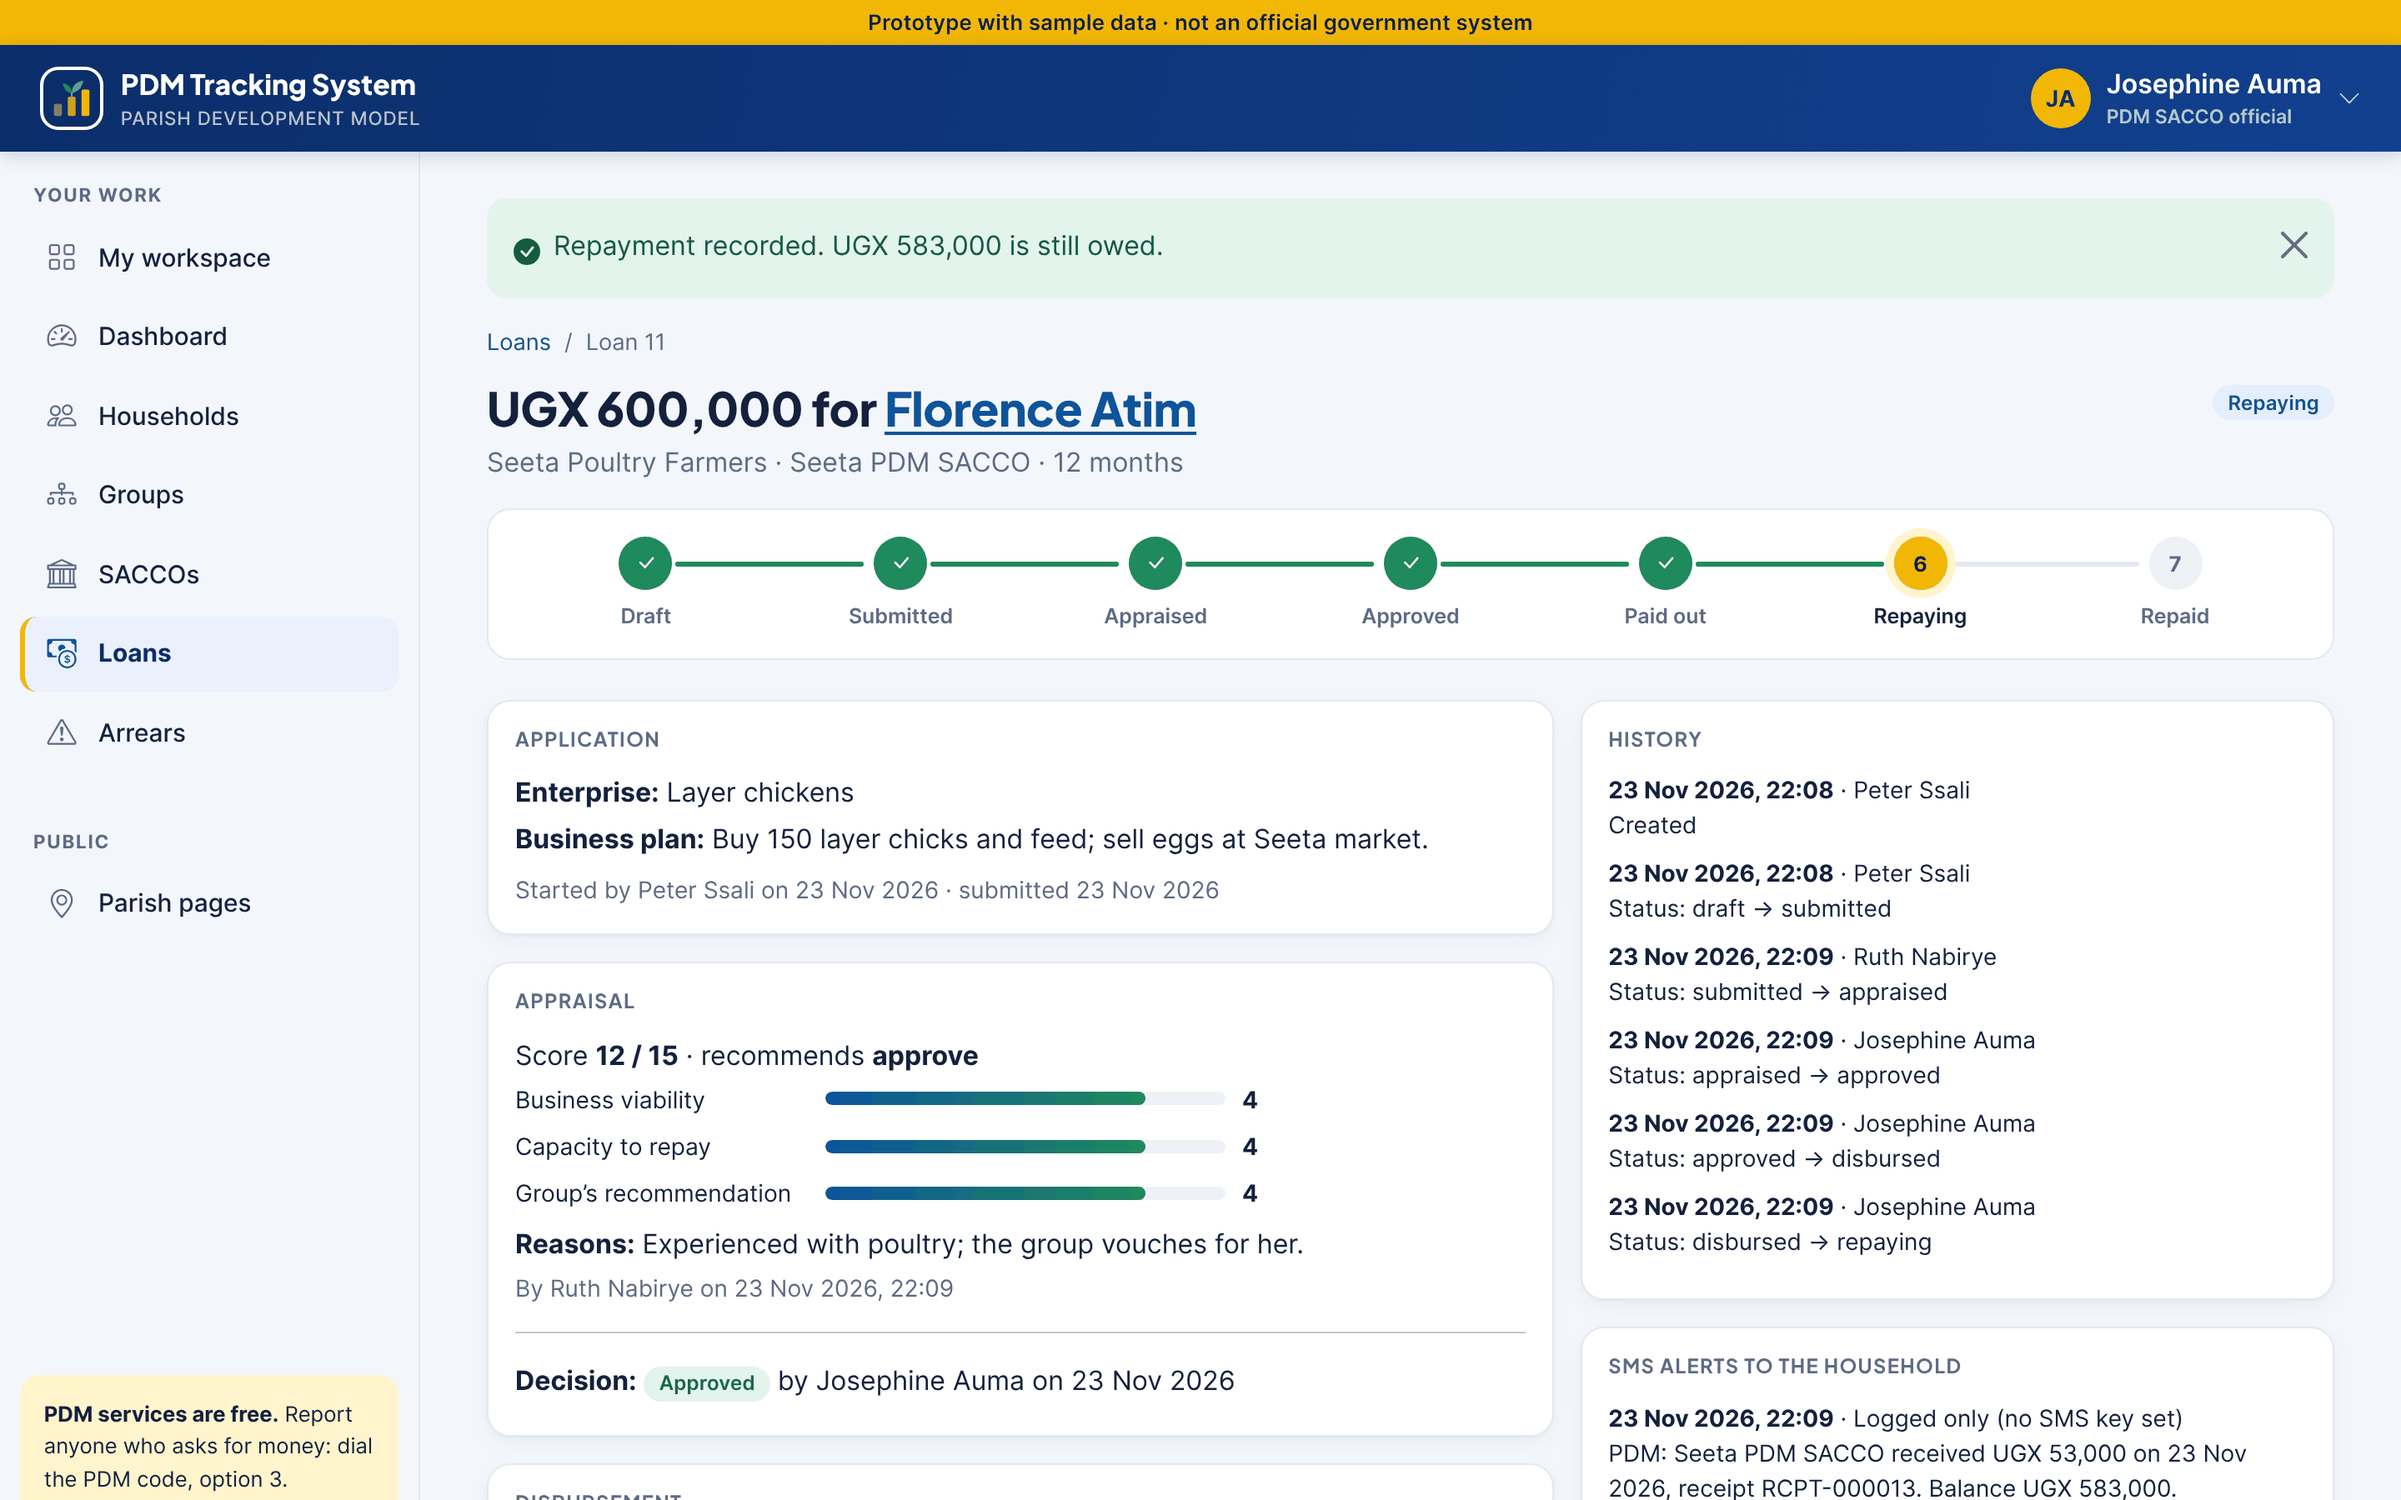
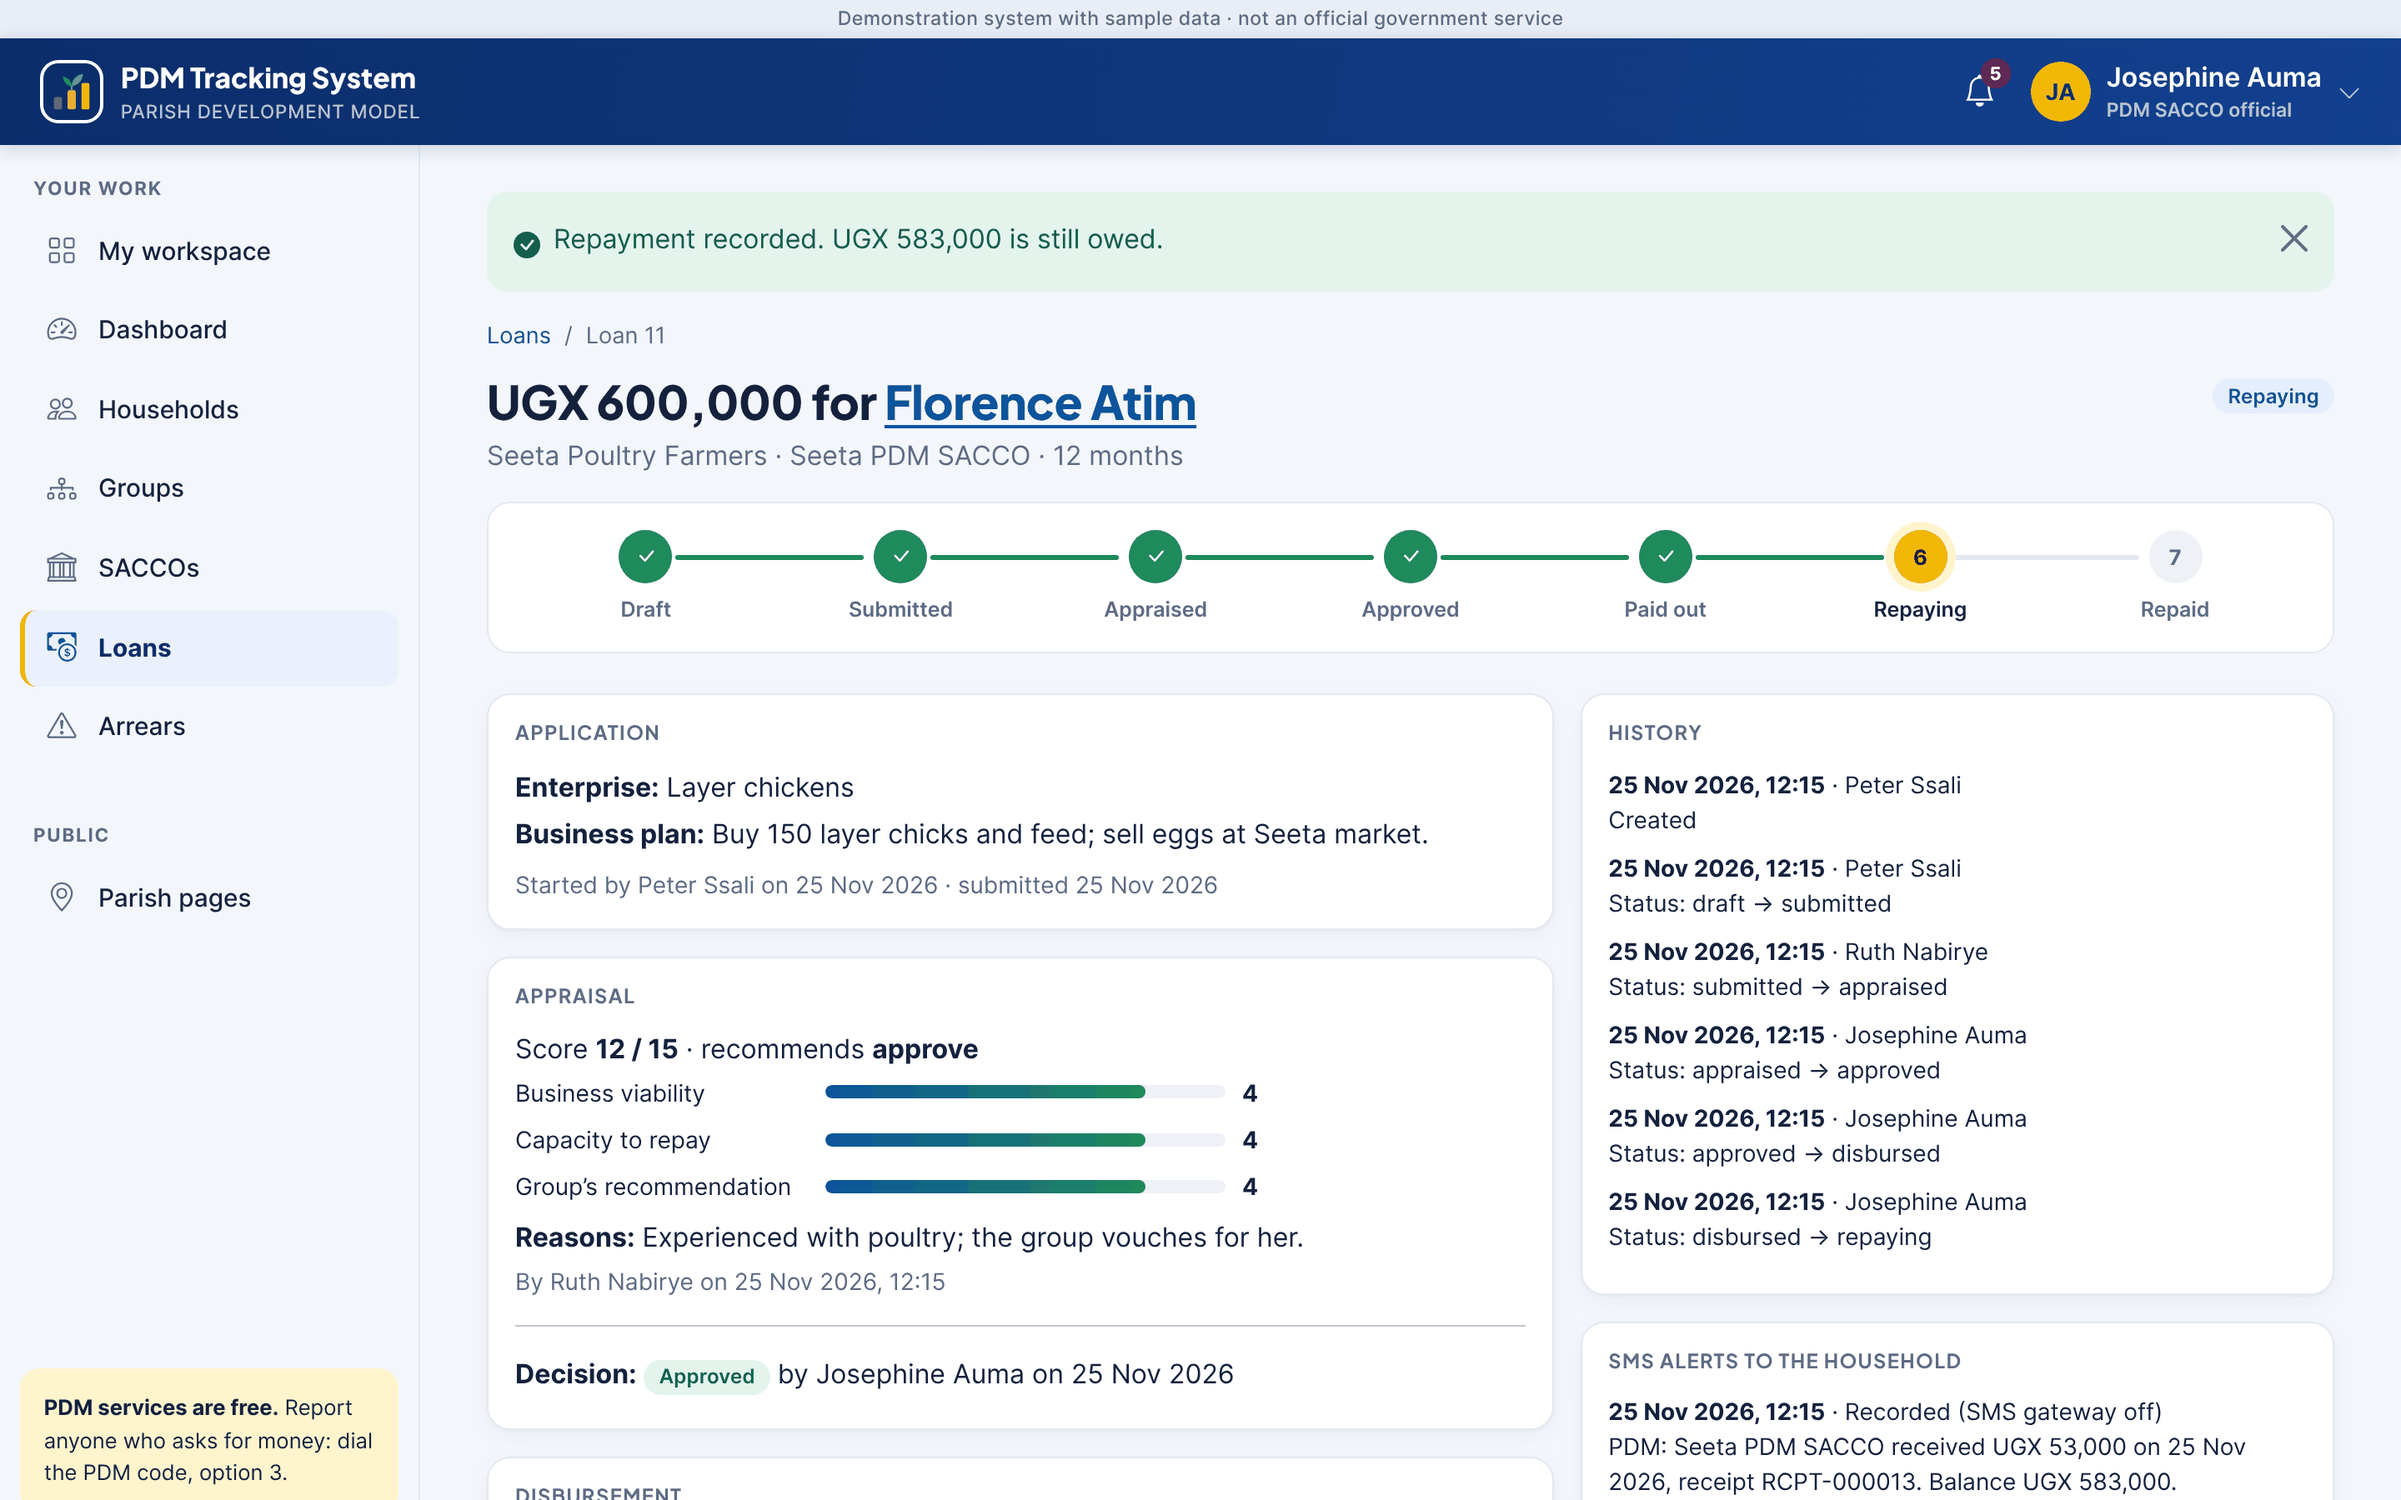
Retake the slide screenshots in the final look
Claude-Session: https://claude.ai/code/session_018J6WgZM9j3qcdPcUXTwiVD

diff --git a/docs/screenshots/README.md b/docs/screenshots/README.md
@@ -1,6 +1,6 @@
 # Screenshots for the slides
 
-Taken on the live site (https://pdm.treez.tech) during the rehearsal on 23 Nov 2026, following [DEMO.md](../DEMO.md). 2880 × 1800 (2× for a sharp projector image); 24 is a phone (Pixel 7). Sample data only.
+Taken on the live site (https://pdm.treez.tech) during the rehearsal on 25 Nov 2026, after the final look-and-feel changes, following [DEMO.md](../DEMO.md). 2880 × 1800 (2× for a sharp projector image); 24 is a phone (Pixel 7). Sample data only.
 
 | File | Journey stage | Shows |
 | --- | --- | --- |
